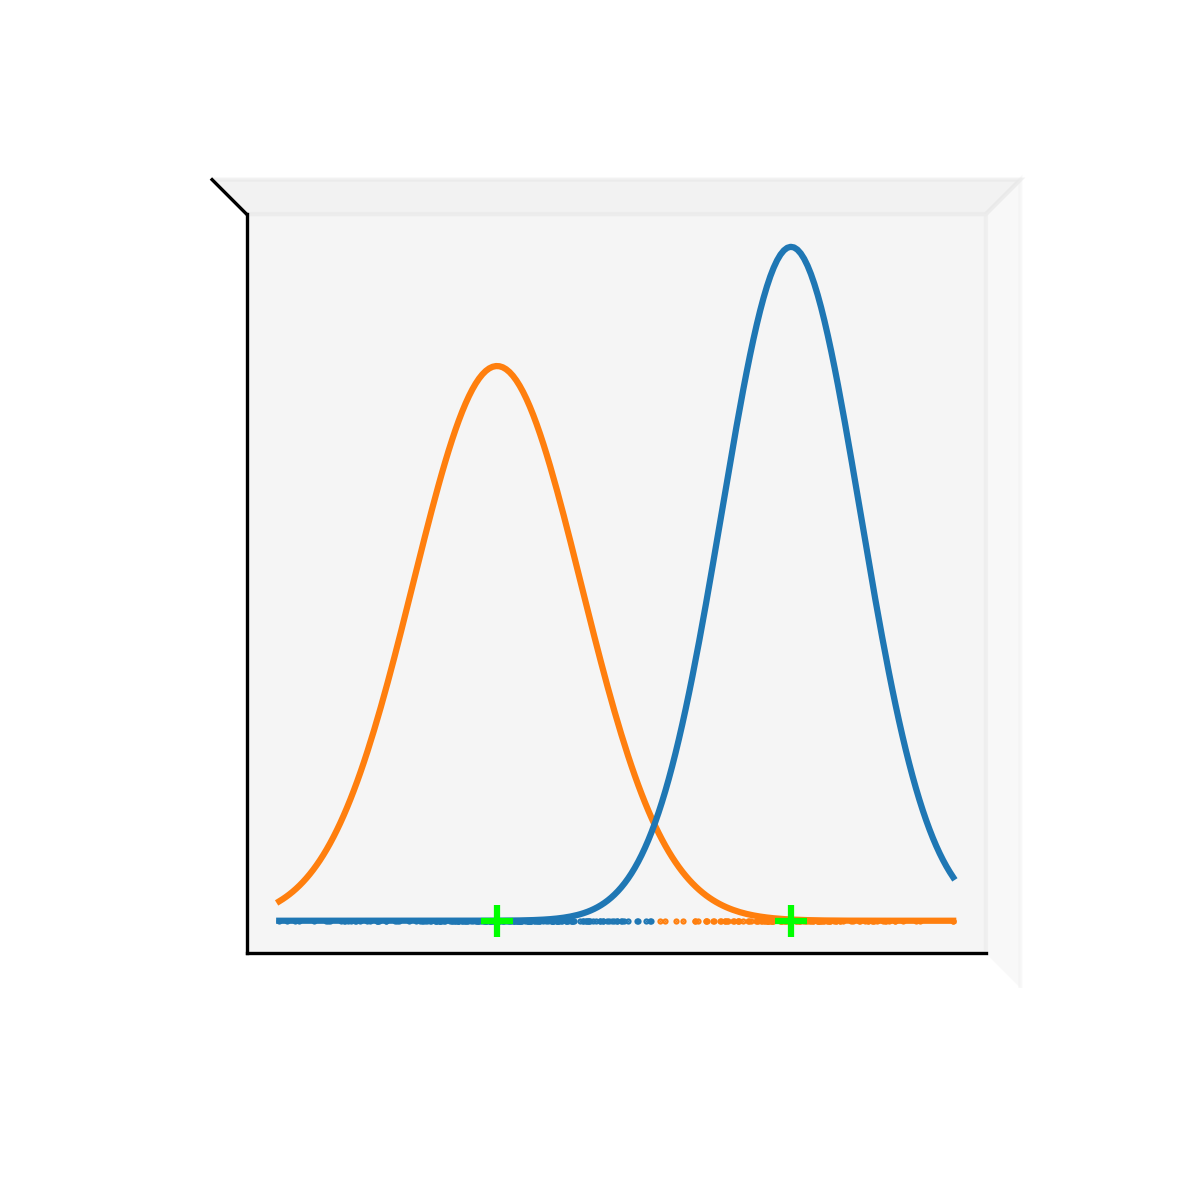
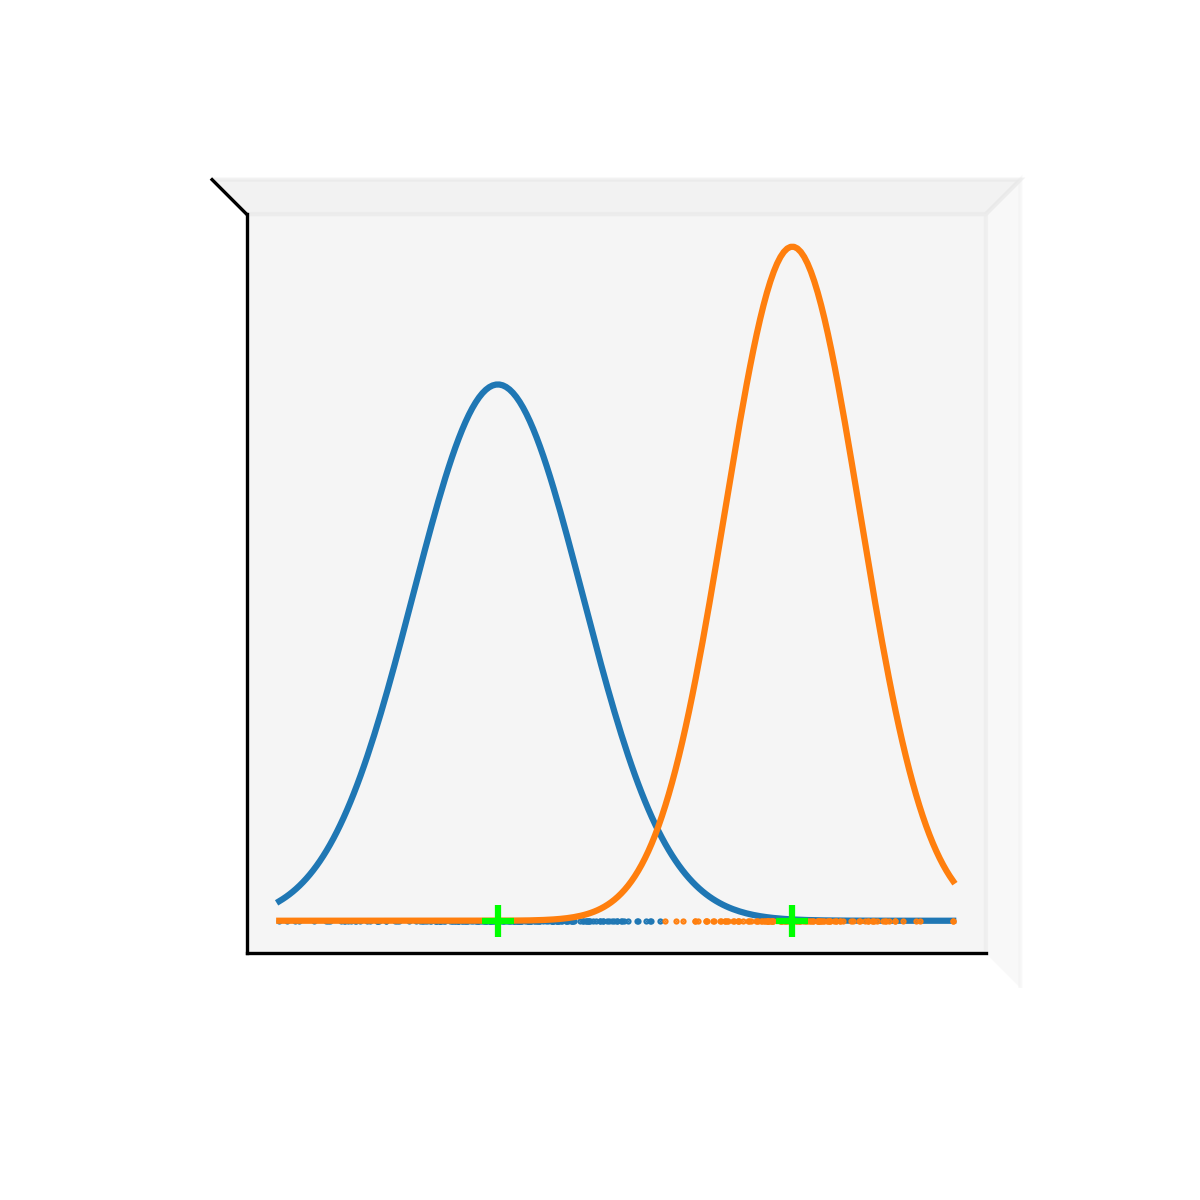
HDI calculation

diff --git a/ex5/i_tzimas/GMMVB.py b/ex5/i_tzimas/GMMVB.py
@@ -27,7 +27,6 @@ class GMMVB:
         self.K = K
         self.eps = np.spacing(1)
         self.filename = filename
-        self.hdi = []
 
     def init_params(self, X):
         """Initialize the parameters.
@@ -53,6 +52,9 @@ class GMMVB:
         self.nu = np.ones(self.K) * self.nu0
         self.m = np.random.randn(self.K, self.D)
         self.W = np.tile(self.W0[None, :, :], (self.K, 1, 1))
+
+        # Highest Density Interval
+        self.hdi = [[0 for _ in range(self.D)] for _ in range(self.K)]
 
     def gmm_pdf(self, X):
         """Calculate the log-likelihood of the D-dimensional mixed Gaussian distribution at N data.
@@ -308,18 +310,43 @@ class GMMVB:
                 break
 
         # Highest Density Interval
+        self._calculate_hdi(X)
 
         # Visualisation
         self.visualize(X)
 
     def _calculate_hdi(self, X):
-        """Calculate the Highest Density Interval (HDI).
+        """Calculate the Highest Density Interval (HDI) for each cluster.
 
         Args:
             X (numpy ndarray): Input data whose size is (N, D).
         Returns:
             None.
         """
+        N_RANDOM_SAMPLES = 100000
+
+        for k in range(self.K):
+
+            # Take 100k random samples of posterior
+            sample_data = multivariate_normal.rvs(
+                self.m[k, : self.D], self.W[k], N_RANDOM_SAMPLES
+            )
+            if len(sample_data.shape) == 1:
+                sample_data = np.expand_dims(sample_data, 1)
+
+            for d in range(self.D):
+                # Sort for a given dimension
+                sample_data_d = np.sort(sample_data[:, d])
+                # Mass is 95%
+                mass = int(N_RANDOM_SAMPLES * 0.95)
+
+                # Calculate L
+                range_i = range(N_RANDOM_SAMPLES - mass)
+                L = [sample_data_d[i + mass] - sample_data_d[i] for i in range_i]
+
+                # Find HDI for current dimension
+                i_s = np.argmin(L)
+                self.hdi[k][d] = [sample_data_d[i_s], sample_data_d[i_s + mass]]
 
 
 if __name__ == "__main__":
